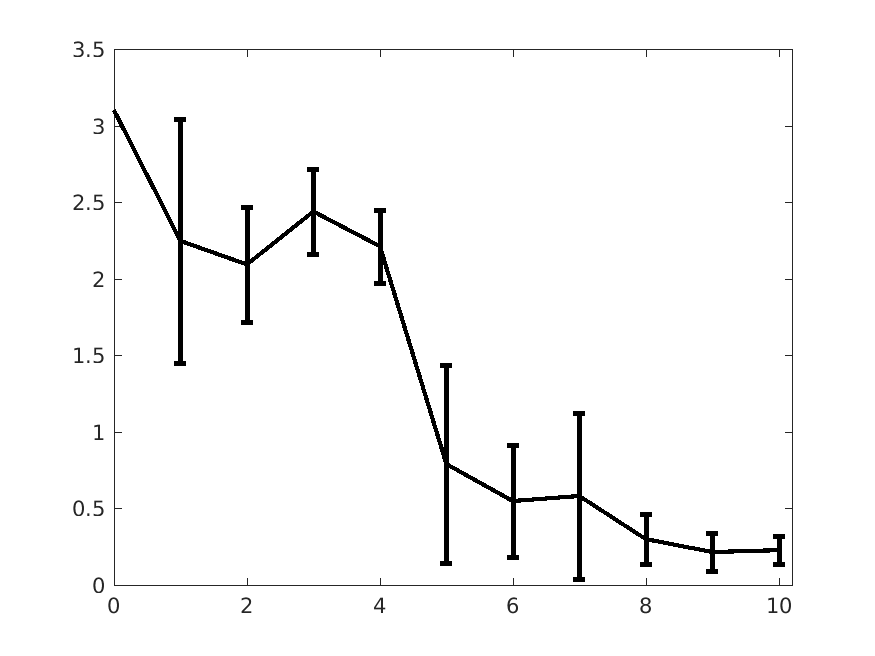
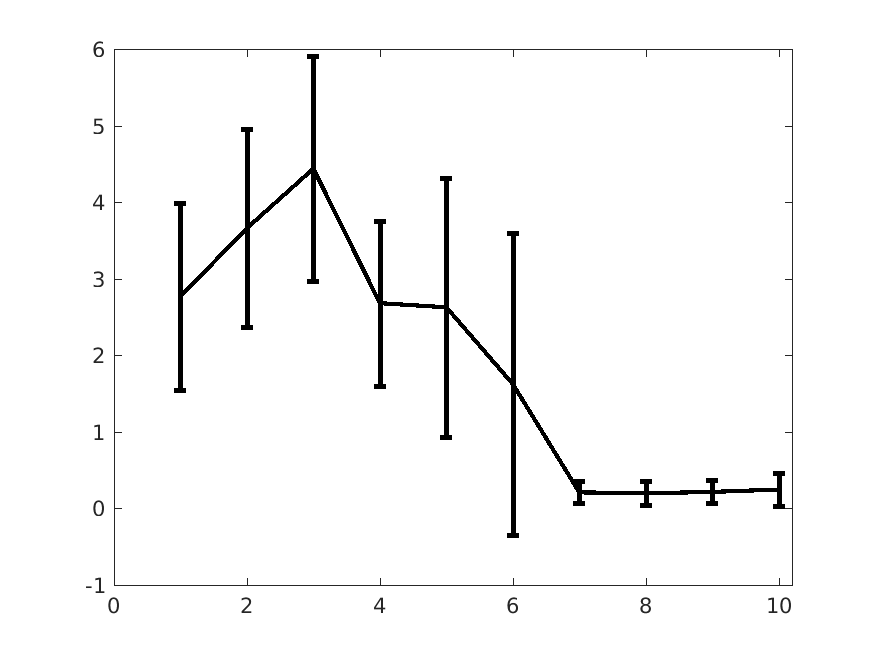
preliminary parsing of data

diff --git a/data/sortData.m b/data/sortData.m
@@ -1,6 +1,6 @@
 close all
 
-d = csvread('MeanCov_Sept1_2016.txt');
+d = csvread('MeanCov_March1_2017.txt');
 
 lastPoints = d(:,1) == 10;
 
@@ -25,11 +25,6 @@ for i=0:10
     
     
     trial = i;
-    if(trial == 5)
-        trial = 6;
-    elseif(trial==6)
-        trial = 5;
-    end
     ind = d(:,1) == trial;
     
     
@@ -52,6 +47,7 @@ xlim([0,10.2]);
 saveas(gcf, 'On_Robot_Trans.png')
 
 
+
 figure('Name','Mean_Ang_err')
 plot(0:10, mean_ang_err,linespec{:})
 hold on
@@ -59,4 +55,6 @@ errorbar(1:10, mean_ang_err(2:end), var_ang_err(2:end), linespec{:})
 xlim([0,10.2]);
 ylim([0, .1]);
 saveas(gcf, 'On_Robot_Ang.png')
+
+save('mean_err', 'mean_trans_err', 'var_trans_err', 'mean_ang_err', 'var_ang_err')
 % plot(0:10, mean_ang_err)
